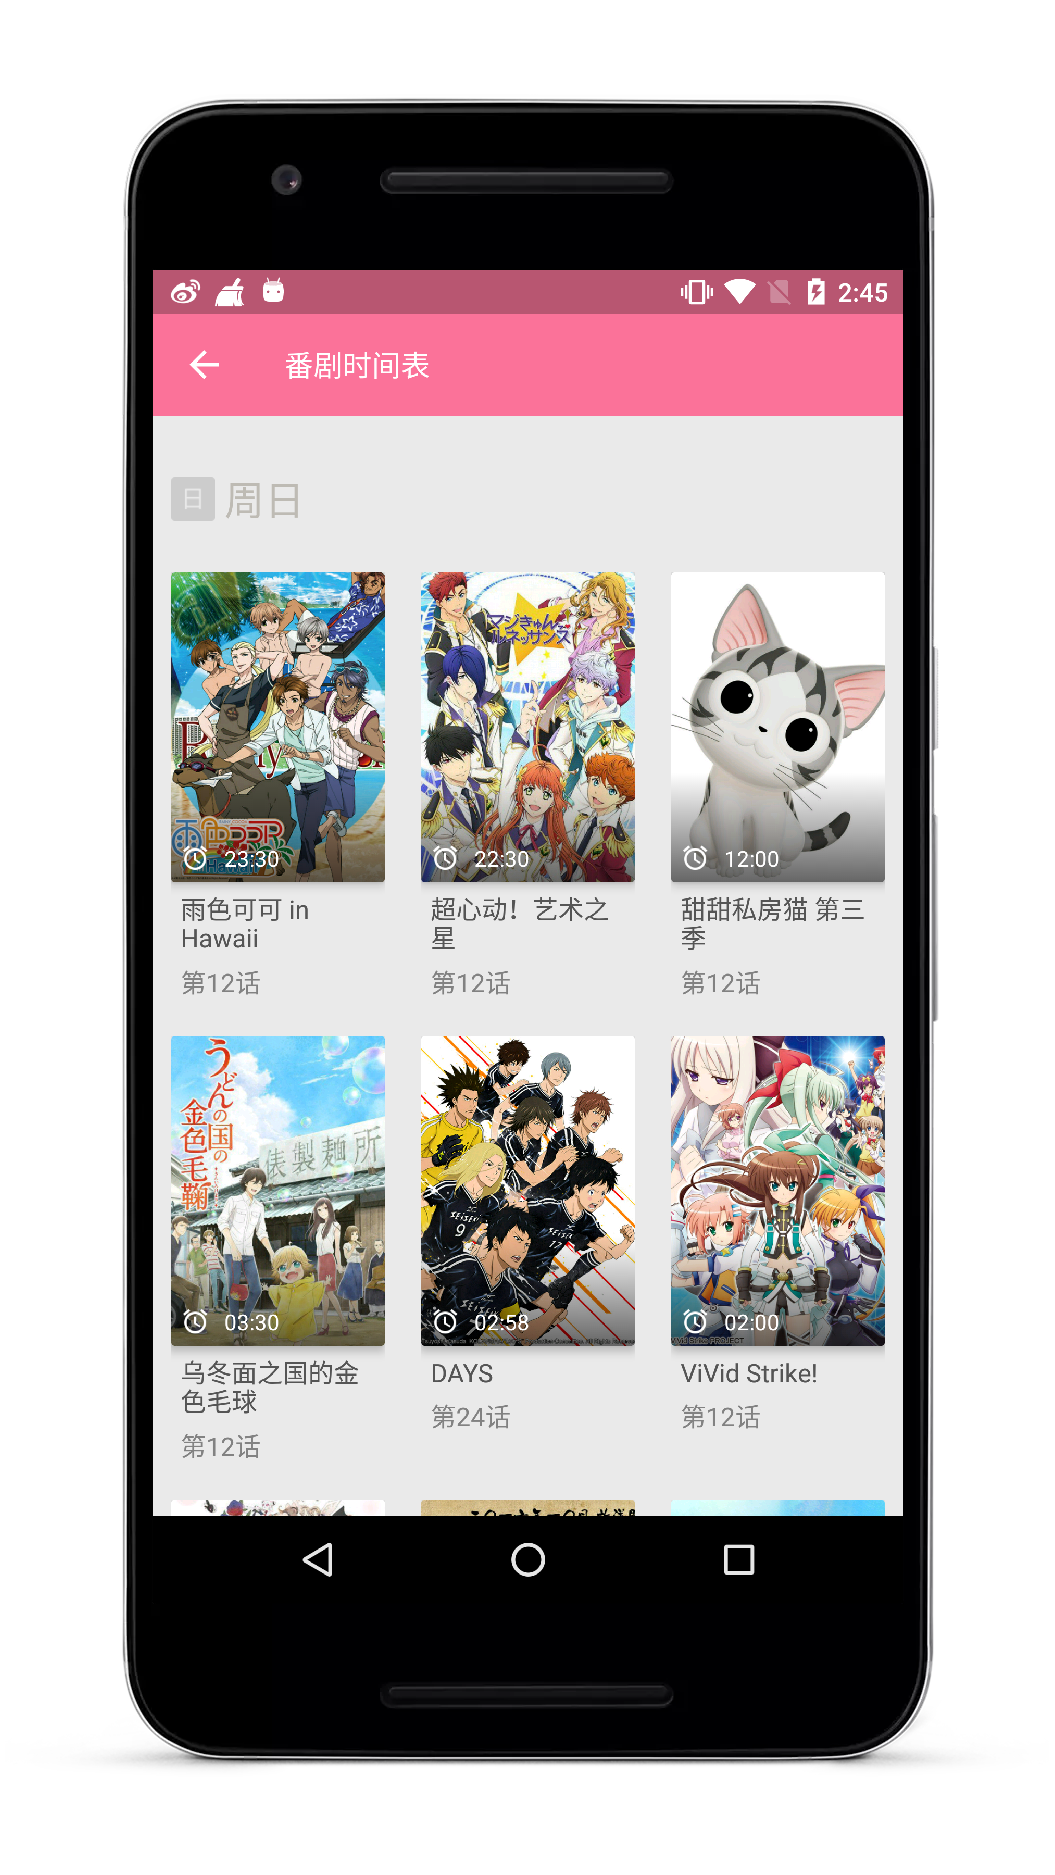
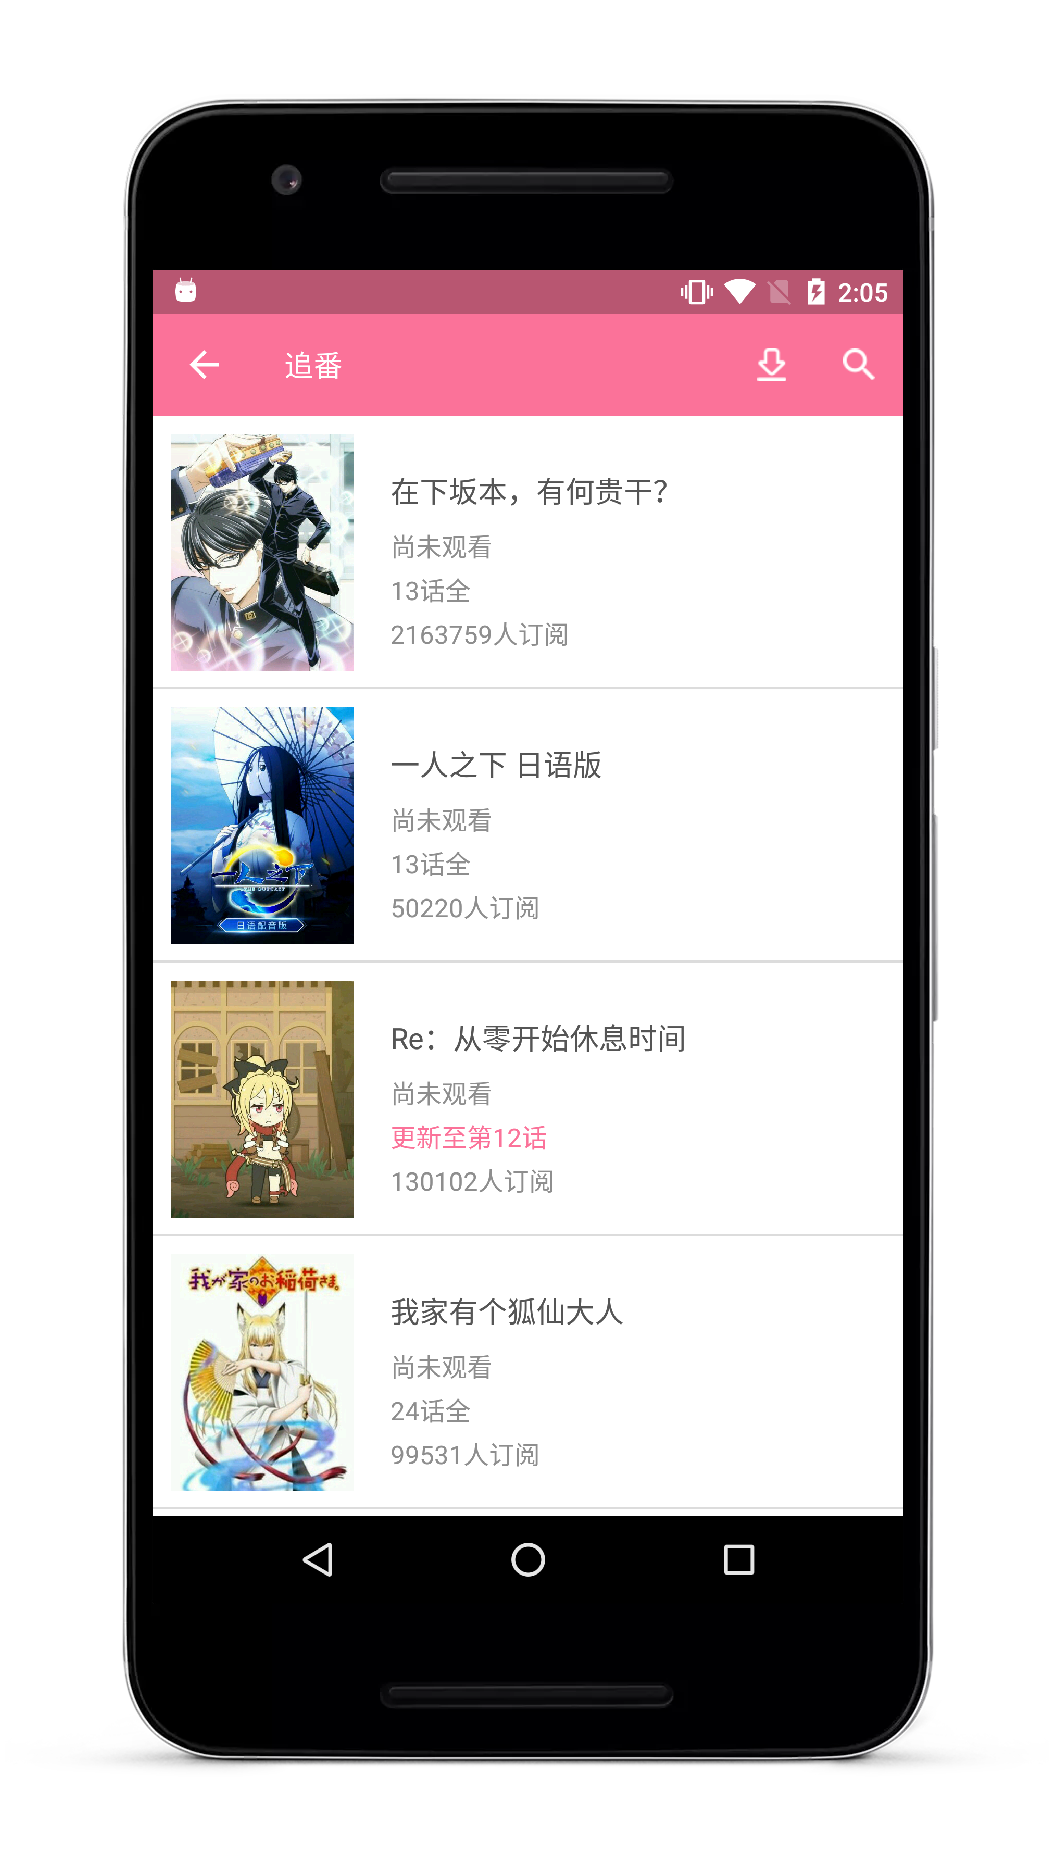
update art And README

diff --git a/README.md b/README.md
@@ -1,9 +1,8 @@
-![](https://github.com/HotBitmapGG/OhMyBiliBili/blob/OhMyBiliBili/art/bg2.png?raw=true)
-
-## High copy bilibili android client
+## Imitation Bilibili Android Client
 
 [![Wercker](https://img.shields.io/badge/Android%20Client-bilibili-brightgreen.svg)](https://github.com/HotBitmapGG/bilibili) [![Issue Stats](https://img.shields.io/issuestats/i/github/strongloop/express.svg?maxAge=2592000)]()  [![TeamCity CodeBetter](https://img.shields.io/teamcity/codebetter/bt428.svg?maxAge=2592000)]() [![Crates.io](https://img.shields.io/crates/l/rustc-serialize.svg?maxAge=2592000)]()
 
+![](https://github.com/HotBitmapGG/OhMyBiliBili/blob/OhMyBiliBili/art/bg2.png?raw=true)
 
 ## Introduce
 
@@ -39,8 +38,7 @@
 
 ## AppKey
 
-关于Appkey的问题，如果你有AppKey,放置到Secret中即可，目前项目中有分区，番剧放送表,追番,视频更多推荐等接口需要Appkey才能正常请求,
-因为目前还在开发阶段,等项目完成的差不多的时候会放上来一个公用的Appkey。
+ * 已公开了一个公用的Appkey，目前只有分区界面才使用到，不过请尽量不要使用Appkey去做大量的请求操作，会导致Appkey被封掉，请悉知。
 
 
 ## Instructions
@@ -62,6 +60,14 @@
 ## Update log
 
 >由于每个版本更新的东西较多，所以从现在开始每个版本都会贴上更新日志.
+
+
+### V2.2.2
+
+  * 1.添加全新的用户详情界面，跟官方保持一致。
+  * 2.添加追番界面。
+  * 3.修复主页推荐的显示Bug，一些未知的数据处理。
+  * 4.修复部分已知Bug。
 
 
 ### V2.2.1
@@ -147,9 +153,17 @@
 
 <a href="art/28.png"><img src="art/28.png" width="40%"/></a> <a href="art/29.png"><img src="art/29.png" width="40%"/></a>
 
-![](https://github.com/HotBitmapGG/bilibili/blob/master-x/art/30.png?raw=true)
+<a href="art/30.png"><img src="art/30.png" width="40%"/></a> <a href="art/31.png"><img src="art/31.png" width="40%"/></a>
 
-![](https://github.com/HotBitmapGG/bilibili/blob/master-x/art/31.png?raw=true)
+<a href="art/32.png"><img src="art/32.png" width="40%"/></a> <a href="art/33.png"><img src="art/33.png" width="40%"/></a>
+
+<a href="art/34.png"><img src="art/34.png" width="40%"/></a> <a href="art/35.png"><img src="art/35.png" width="40%"/></a>
+
+<a href="art/36.png"><img src="art/36.png" width="40%"/></a> <a href="art/37.png"><img src="art/37.png" width="40%"/></a>
+
+![](https://github.com/HotBitmapGG/bilibili/blob/master-x/art/001.png?raw=true)
+
+![](https://github.com/HotBitmapGG/bilibili/blob/master-x/art/002.png?raw=true)
 
 
 
